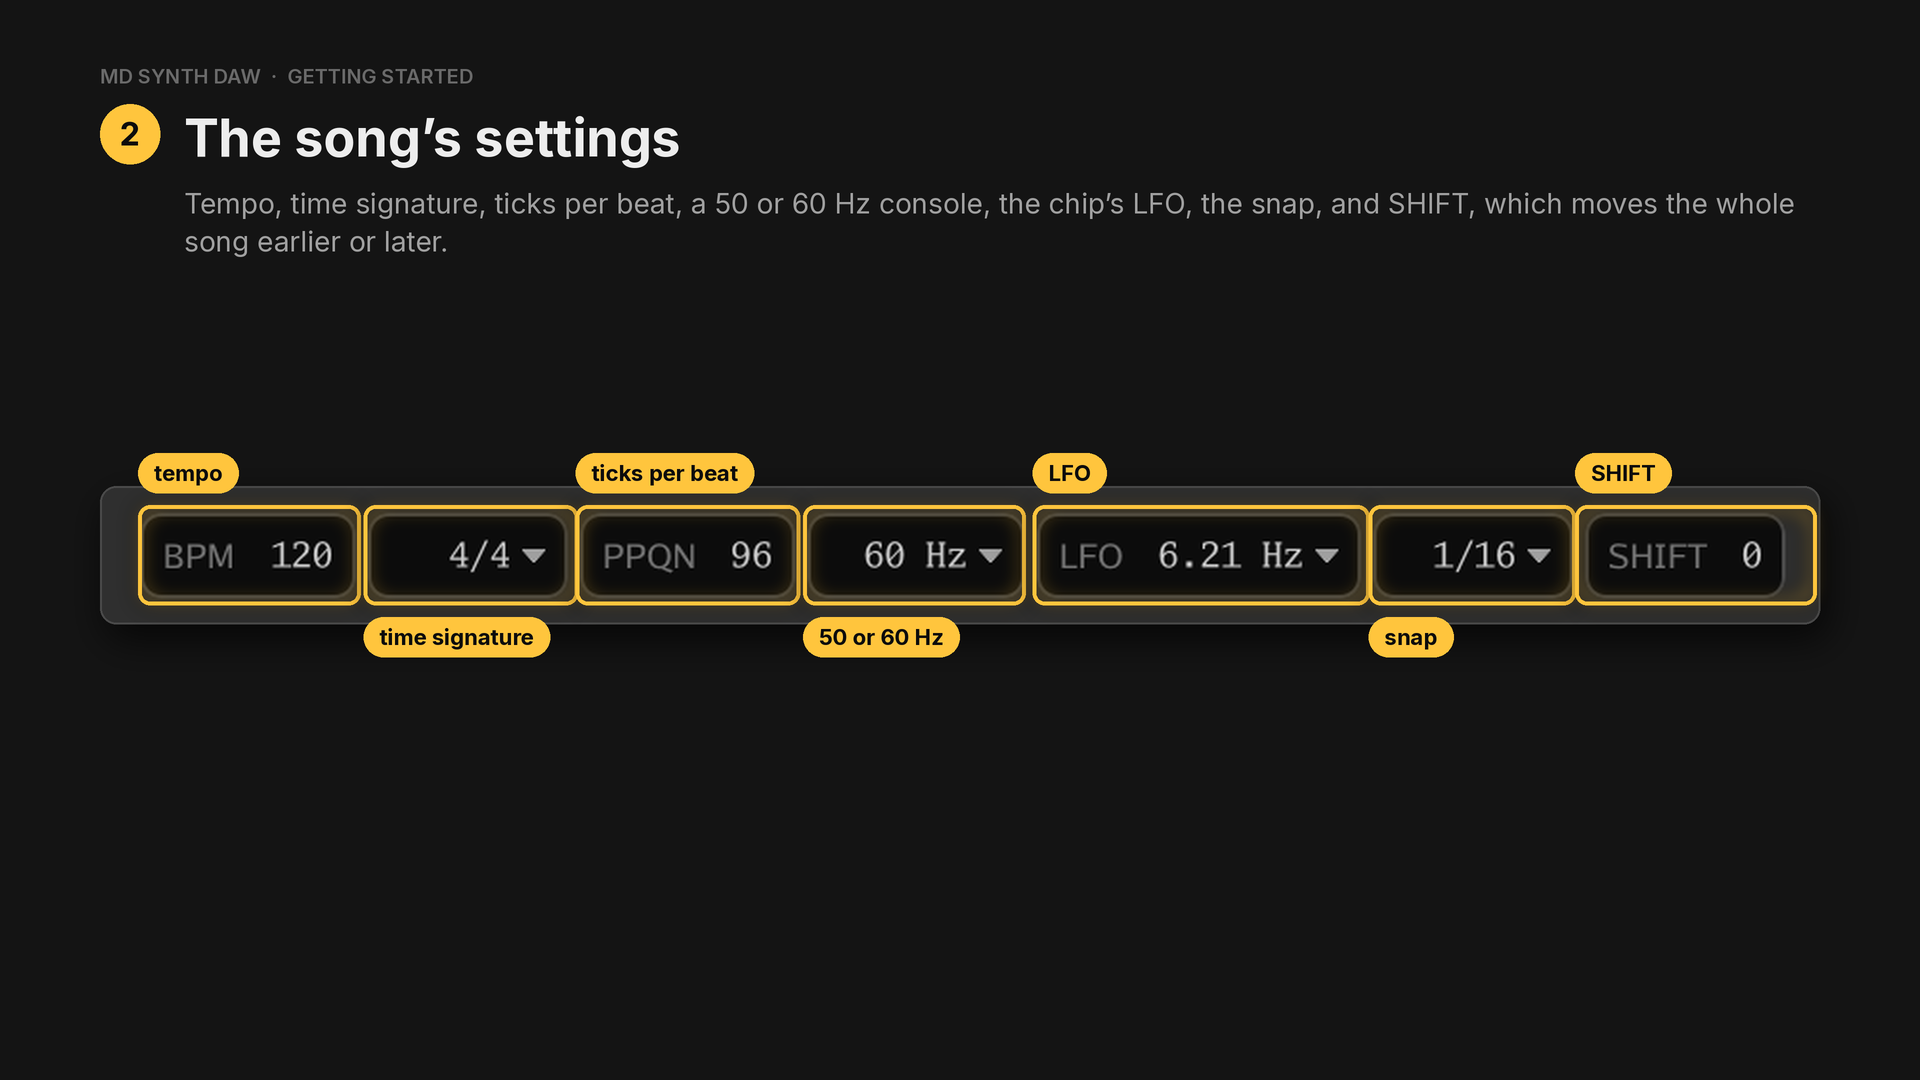
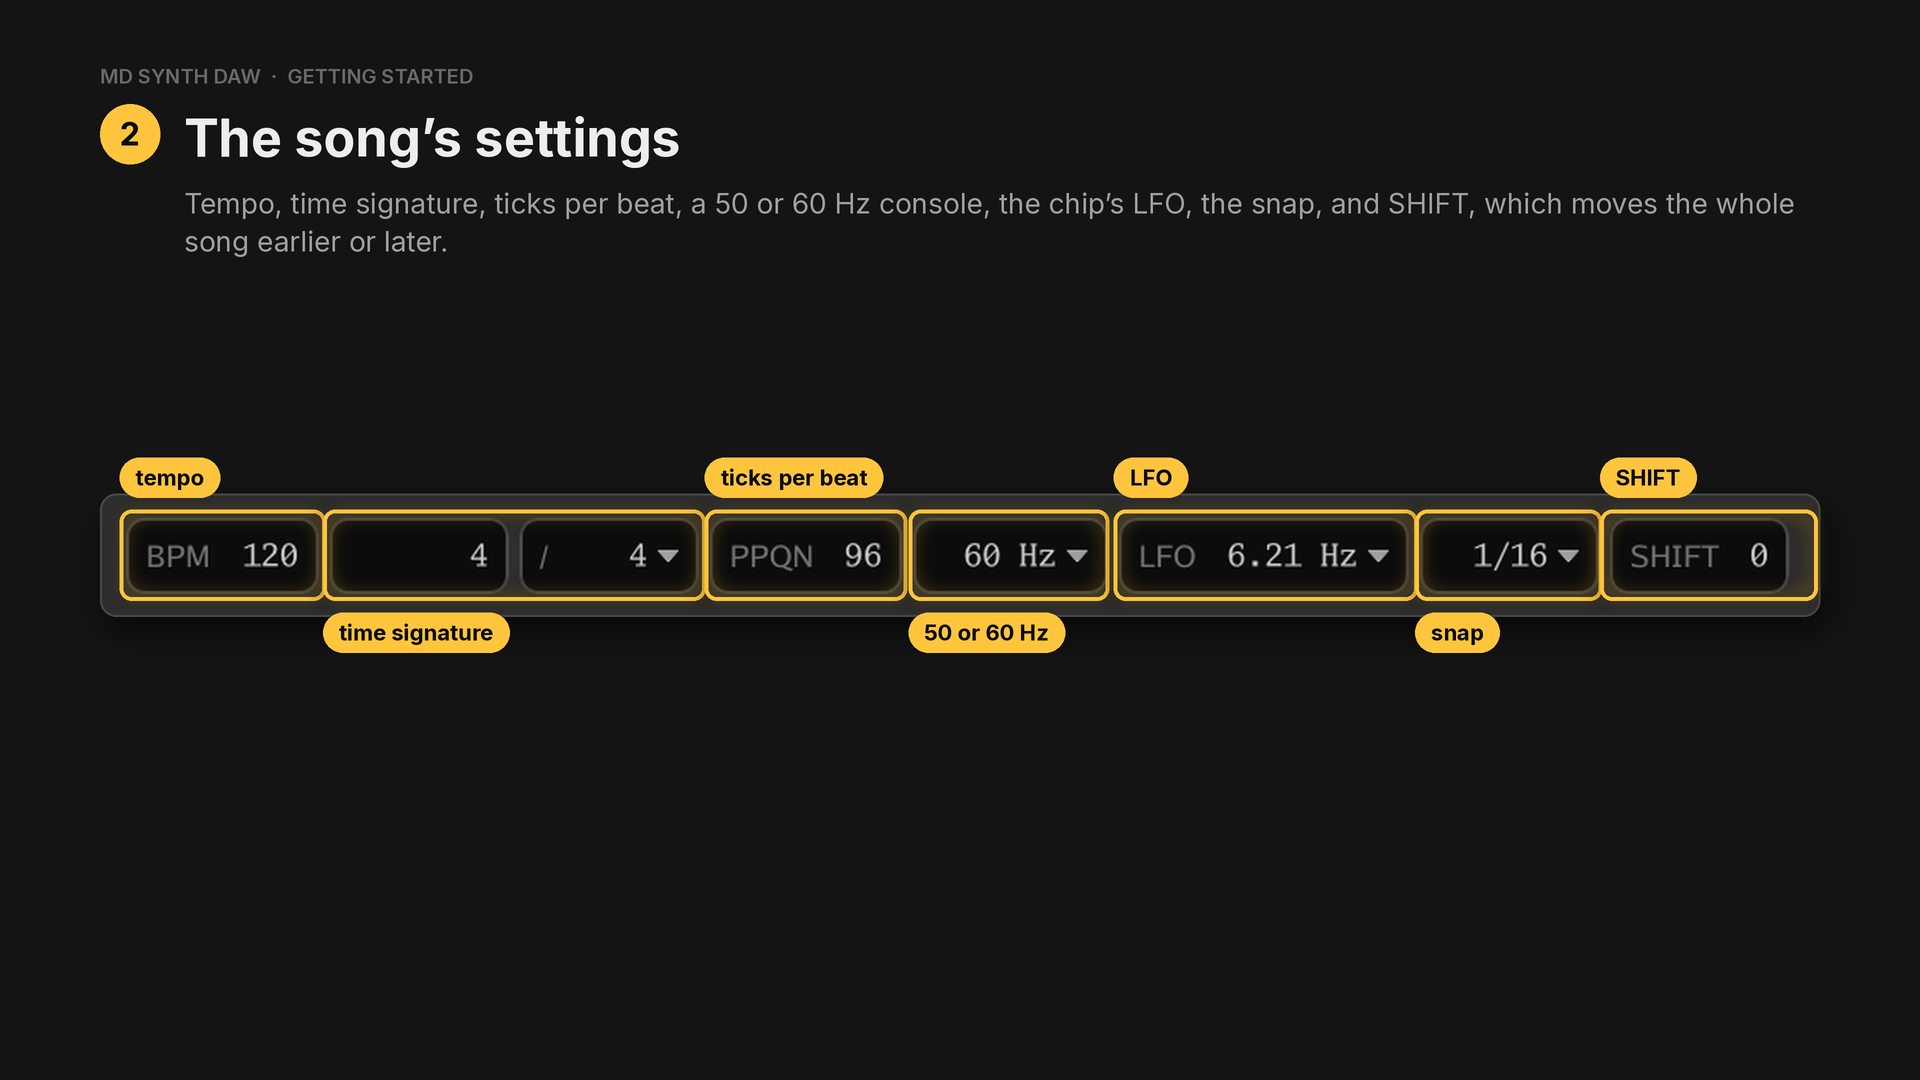
[View/Bar] the time signature is two fields, and a pattern takes any typed one
The transport offered twelve signatures from a list and the Pattern menu the
same twelve, though the song could hold any from 1/1 to 32/32, so 11/32 could
not be chosen anywhere.

Changed region(s): [[0.0625, 0.3972, 0.9688, 0.6111]]

diff --git a/docs/FEATURES.md b/docs/FEATURES.md
@@ -56,7 +56,8 @@ steps through them. The **Pattern** menu has the rest:
 - **Delete** takes it out of the song along with every clip that played it. A song always keeps at
   least one pattern.
 - **Play it on** moves a pattern that holds one channel's notes onto another channel.
-- **Time signature** gives the pattern one of its own, or has it follow the piece.
+- **Time signature** gives the pattern one of its own, a common one in a click or any other typed
+  as a score writes it, such as 11/32, or has it follow the piece.
 - **Clear every channel** empties it.
 
 ### The playlist
@@ -108,9 +109,10 @@ note.
   time signature says. The roll and the transport bar offer the same divisions, and the one you
   pick is kept between sessions. A note you place lands on the step you pointed at, and one you
   drag goes to the nearest line.
-- A time signature for the piece, chosen on the transport bar from 2/4 to 7/4 and 3/8 to 12/8,
-  and one of its own for any pattern from the Pattern menu. It decides where bars fall in the
-  grid, the ruler and the bar count, and how far a pattern grows when a note runs past its end.
+- A time signature for the piece, set on the transport bar as its two numbers: 1 to 32 beats a bar,
+  dragged, scrolled or typed, over a whole note down to a thirty second, so 11/32 is as easy to set
+  as 3/4. Any pattern can have one of its own from the Pattern menu. It decides where bars fall in
+  the grid, the ruler and the bar count, and how far a pattern grows when a note runs past its end.
   Every other bar is shaded a little lighter, so where one ends can be seen at any zoom. A MIDI
   file's time signature is read when it is imported and written when one is exported.
 - `Ctrl` and the wheel to zoom, as far out as a bar four pixels wide and as far in as one

diff --git a/docs/user-manual.md b/docs/user-manual.md
@@ -264,8 +264,10 @@ changes what you hear, never what is exported.
 
 ![The right half of the transport bar](images/manual/basics/getting-started/04-transport-right.png)
 
-The tempo is in **BPM**, and **PPQN** is the number of ticks in a quarter note. **SHIFT** moves every
-note, clip and automation point by a number of ticks.
+The tempo is in **BPM**. The time signature is two fields: drag, scroll or type the upper number,
+from 1 to 32 beats, and pick the lower one, from a whole note down to a thirty second, so 11/32 is as
+easy as 4/4. **PPQN** is the number of ticks in a quarter note. **SHIFT** moves every note, clip and
+automation point by a number of ticks.
 
 ![A row of the channel rack](images/manual/basics/getting-started/05-channel-rack.png)
 
@@ -371,7 +373,7 @@ commands, and a few more:
 | Add to the playlist | put a clip of it after the last clip on the first track |
 | Delete | take it out, with every clip that plays it |
 | Play it on | move a pattern that holds one channel's notes onto another channel |
-| Time signature | give the pattern one of its own, or follow the song |
+| Time signature | give the pattern one of its own, a common one or any typed under **Custom**, or follow the song |
 | Clear every channel | empty it |
 
 ![A clip's corner menu](images/manual/basics/patterns-playlist/04-a-clips-menu.png)
